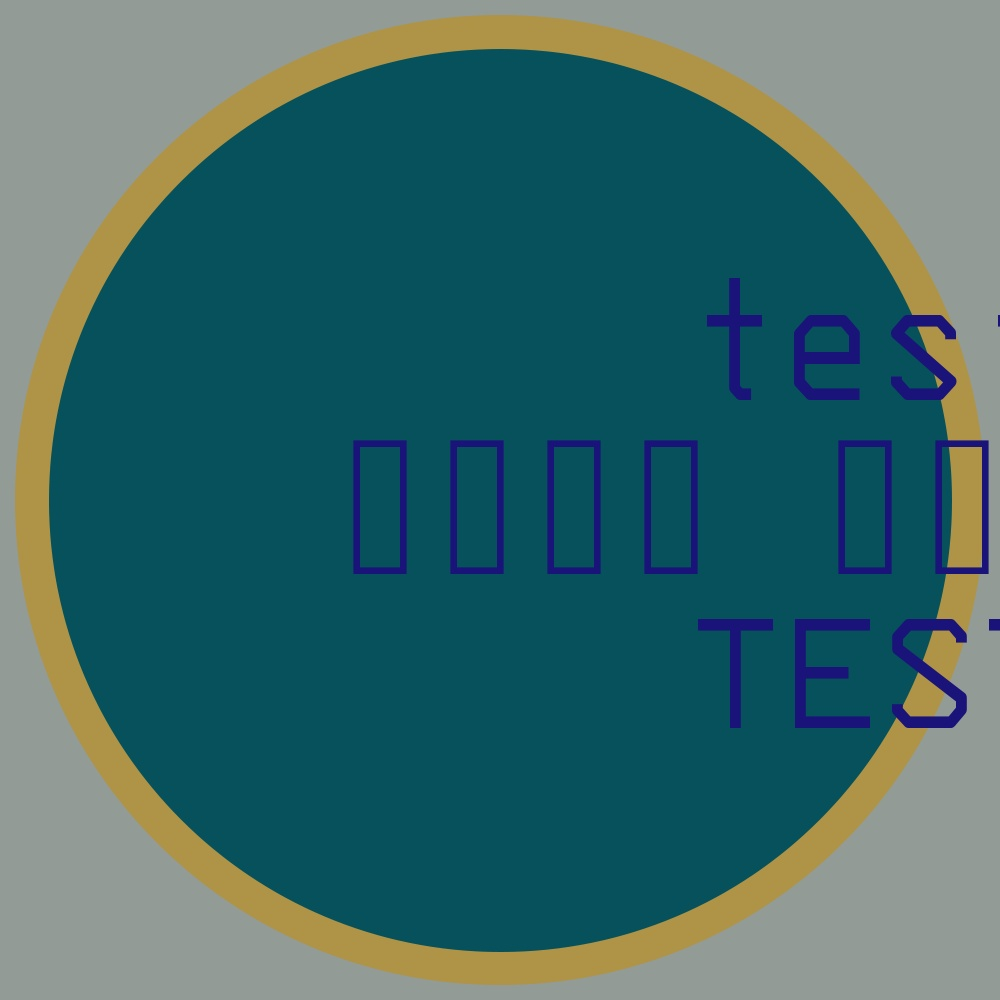
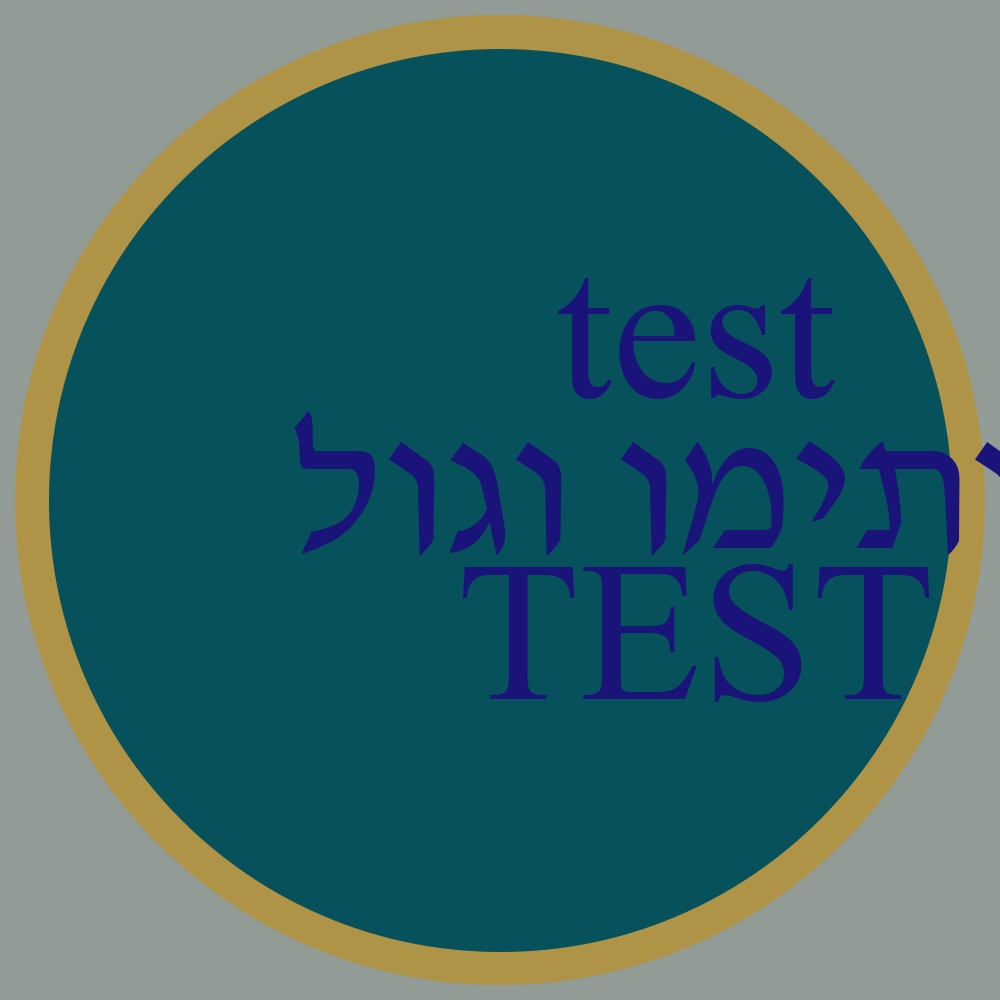
hebrew is still backwards

Changed region(s): [[0.279, 0.403, 1.0, 0.744], [0.558, 0.279, 0.961, 0.403], [0.992, 0.31, 1.0, 0.341]]

diff --git a/main.py b/main.py
@@ -71,4 +71,4 @@ def TestTextToIcon(Text, TemplateImage, Font, FilePath):
 
 TestTextToIcon("""test
  לוגו ומיתוג 
-TEST""", "Template.png","fonts/3270SemiCondensed-Regular.ttf","pfp.jpg")
+TEST""", "Template.png","fonts/david.ttf","pfp.jpg")
